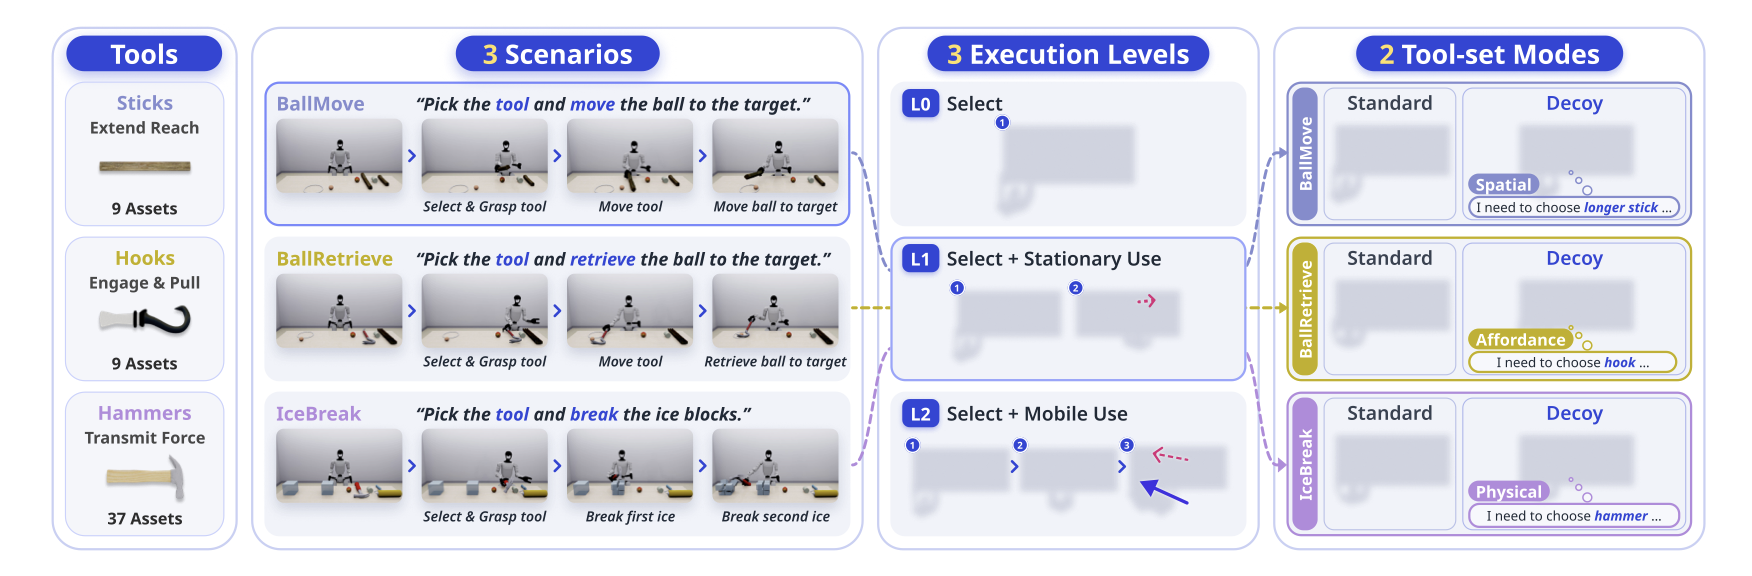
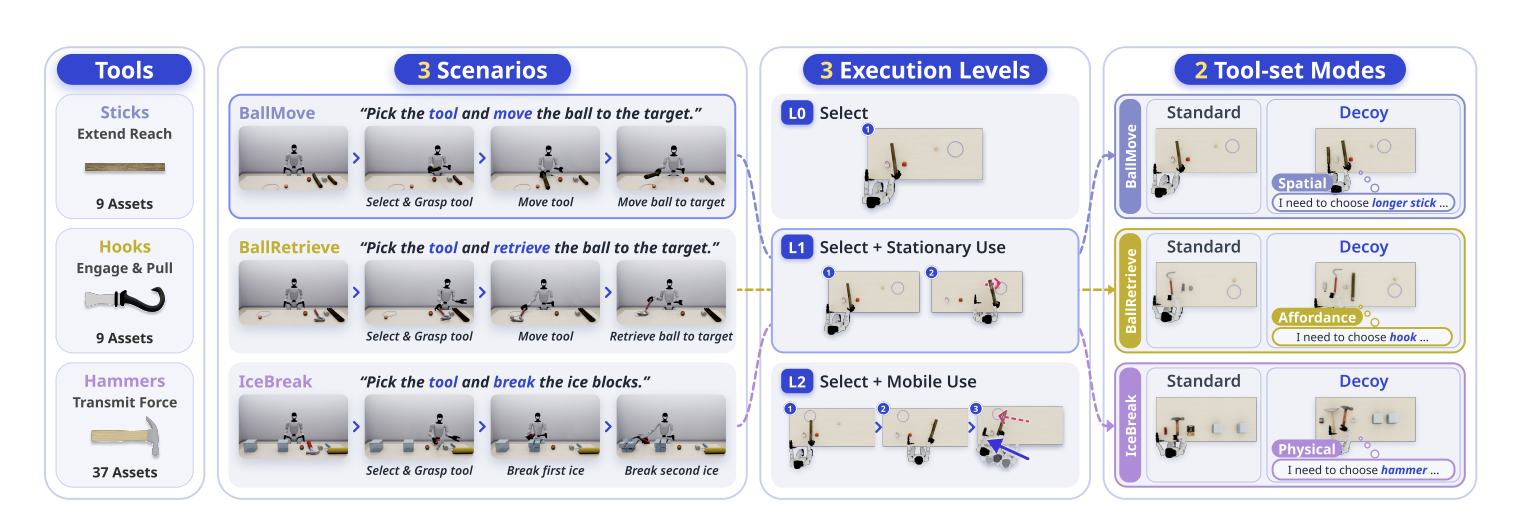
Update HumanoidToolBench figure

diff --git a/_publications/2026-49-humanoidtoolbench-benchmarking-humanoid-tool-use-from-selection-to-mobil.md b/_publications/2026-49-humanoidtoolbench-benchmarking-humanoid-tool-use-from-selection-to-mobil.md
@@ -25,6 +25,6 @@ img: humanoidtoolbench-overview.png
 keywords:
   - name: "Robotics"
   - name: "Benchmark"
-  - name: "Machine Learning"
+  - name: "Humanoid"
 display: False
 ---
